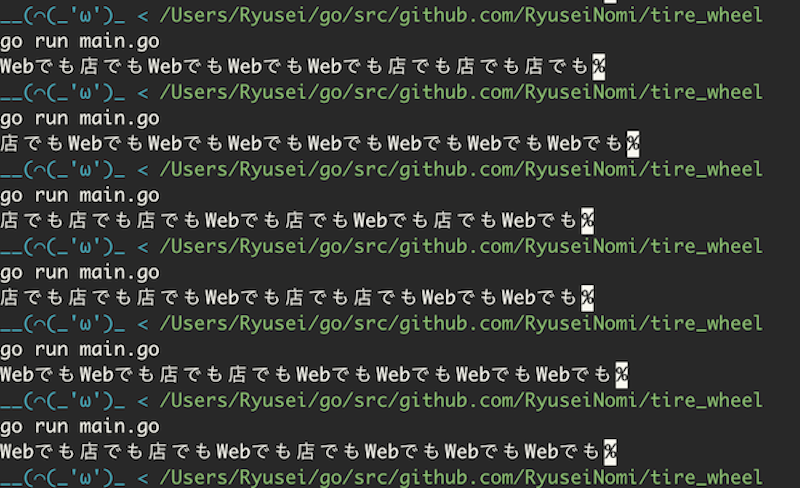
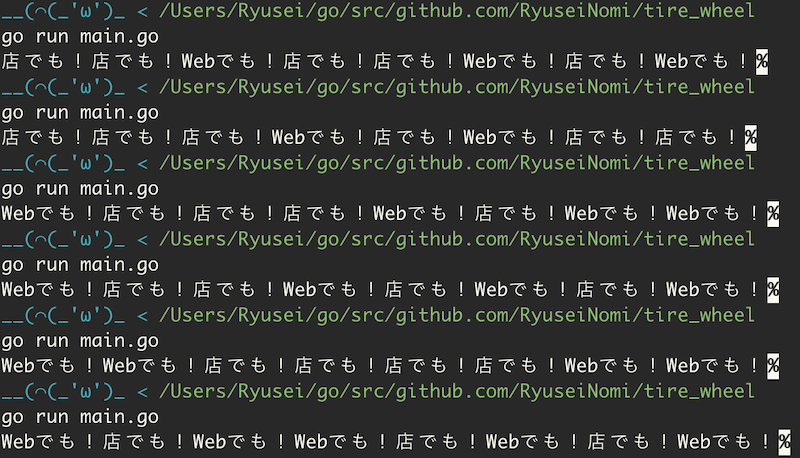
minior modification

diff --git a/main.go b/main.go
@@ -7,7 +7,7 @@ import (
 )
 
 func main() {
-	purchase_options := []string{"店でも", "Webでも"}
+	purchase_options := []string{"店でも！", "Webでも！"}
 
 	for i := 0; i < 8; i++ {
 		fmt.Print(extract(purchase_options))
